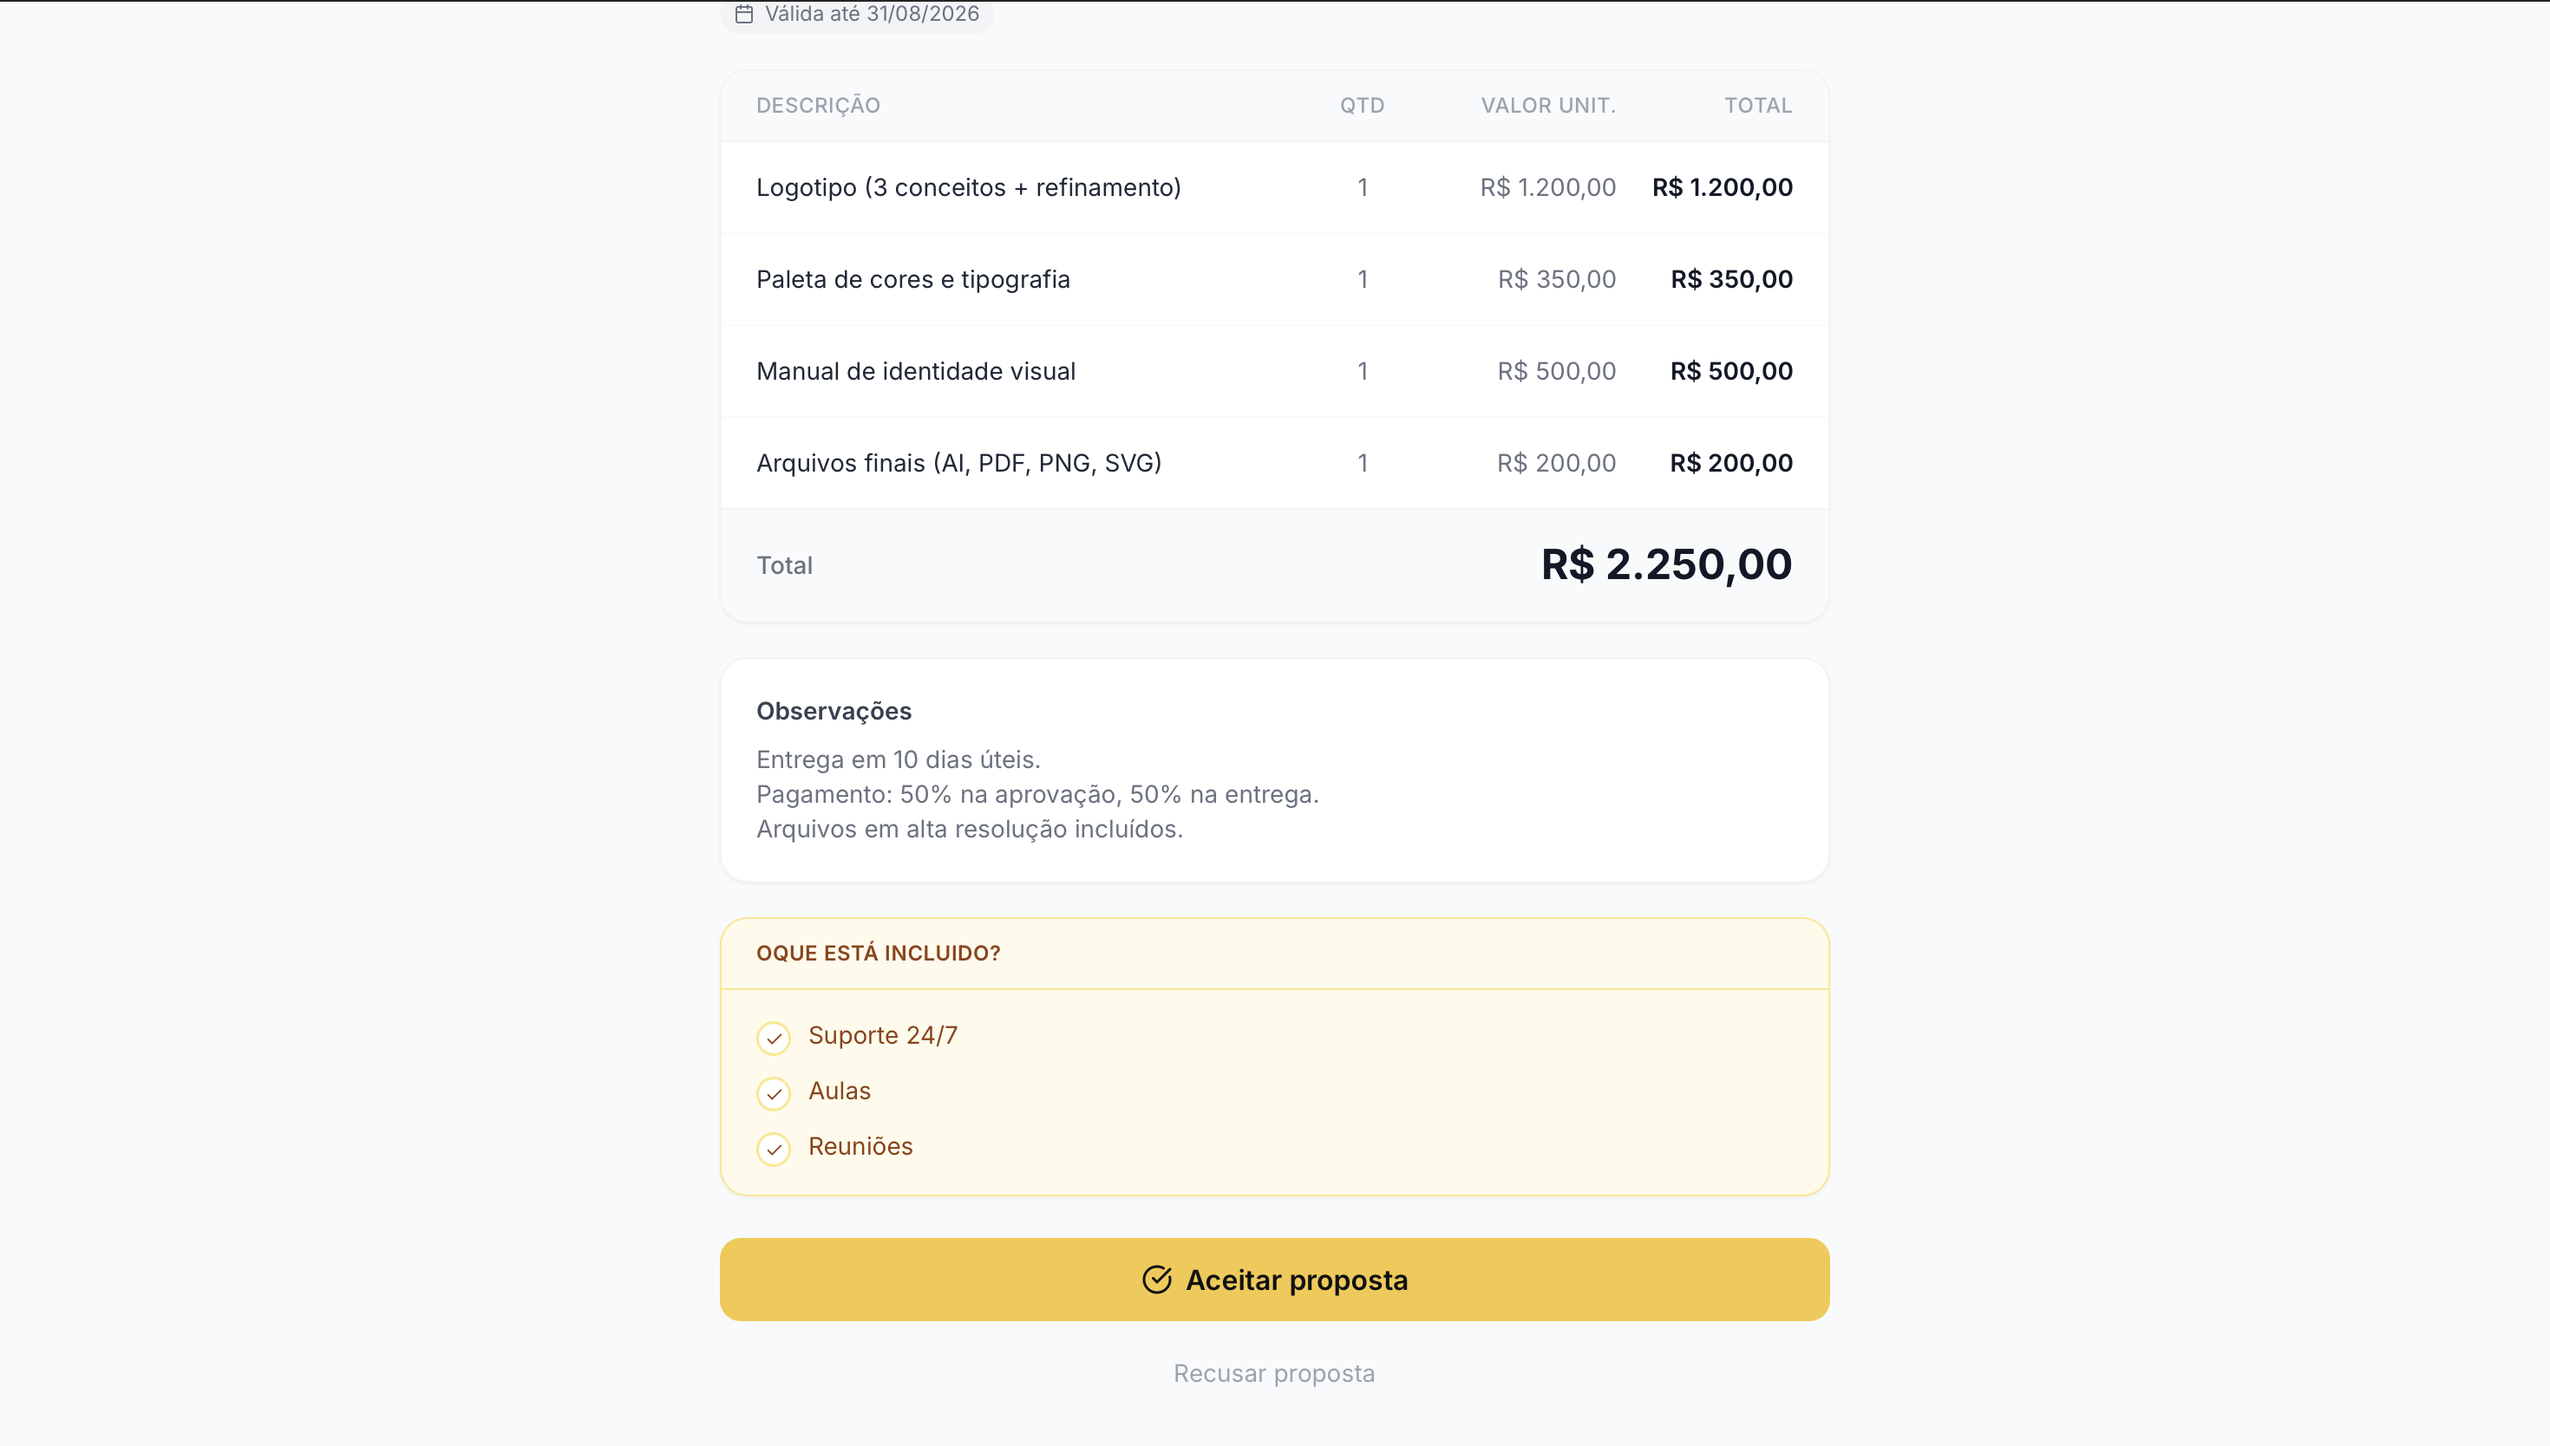
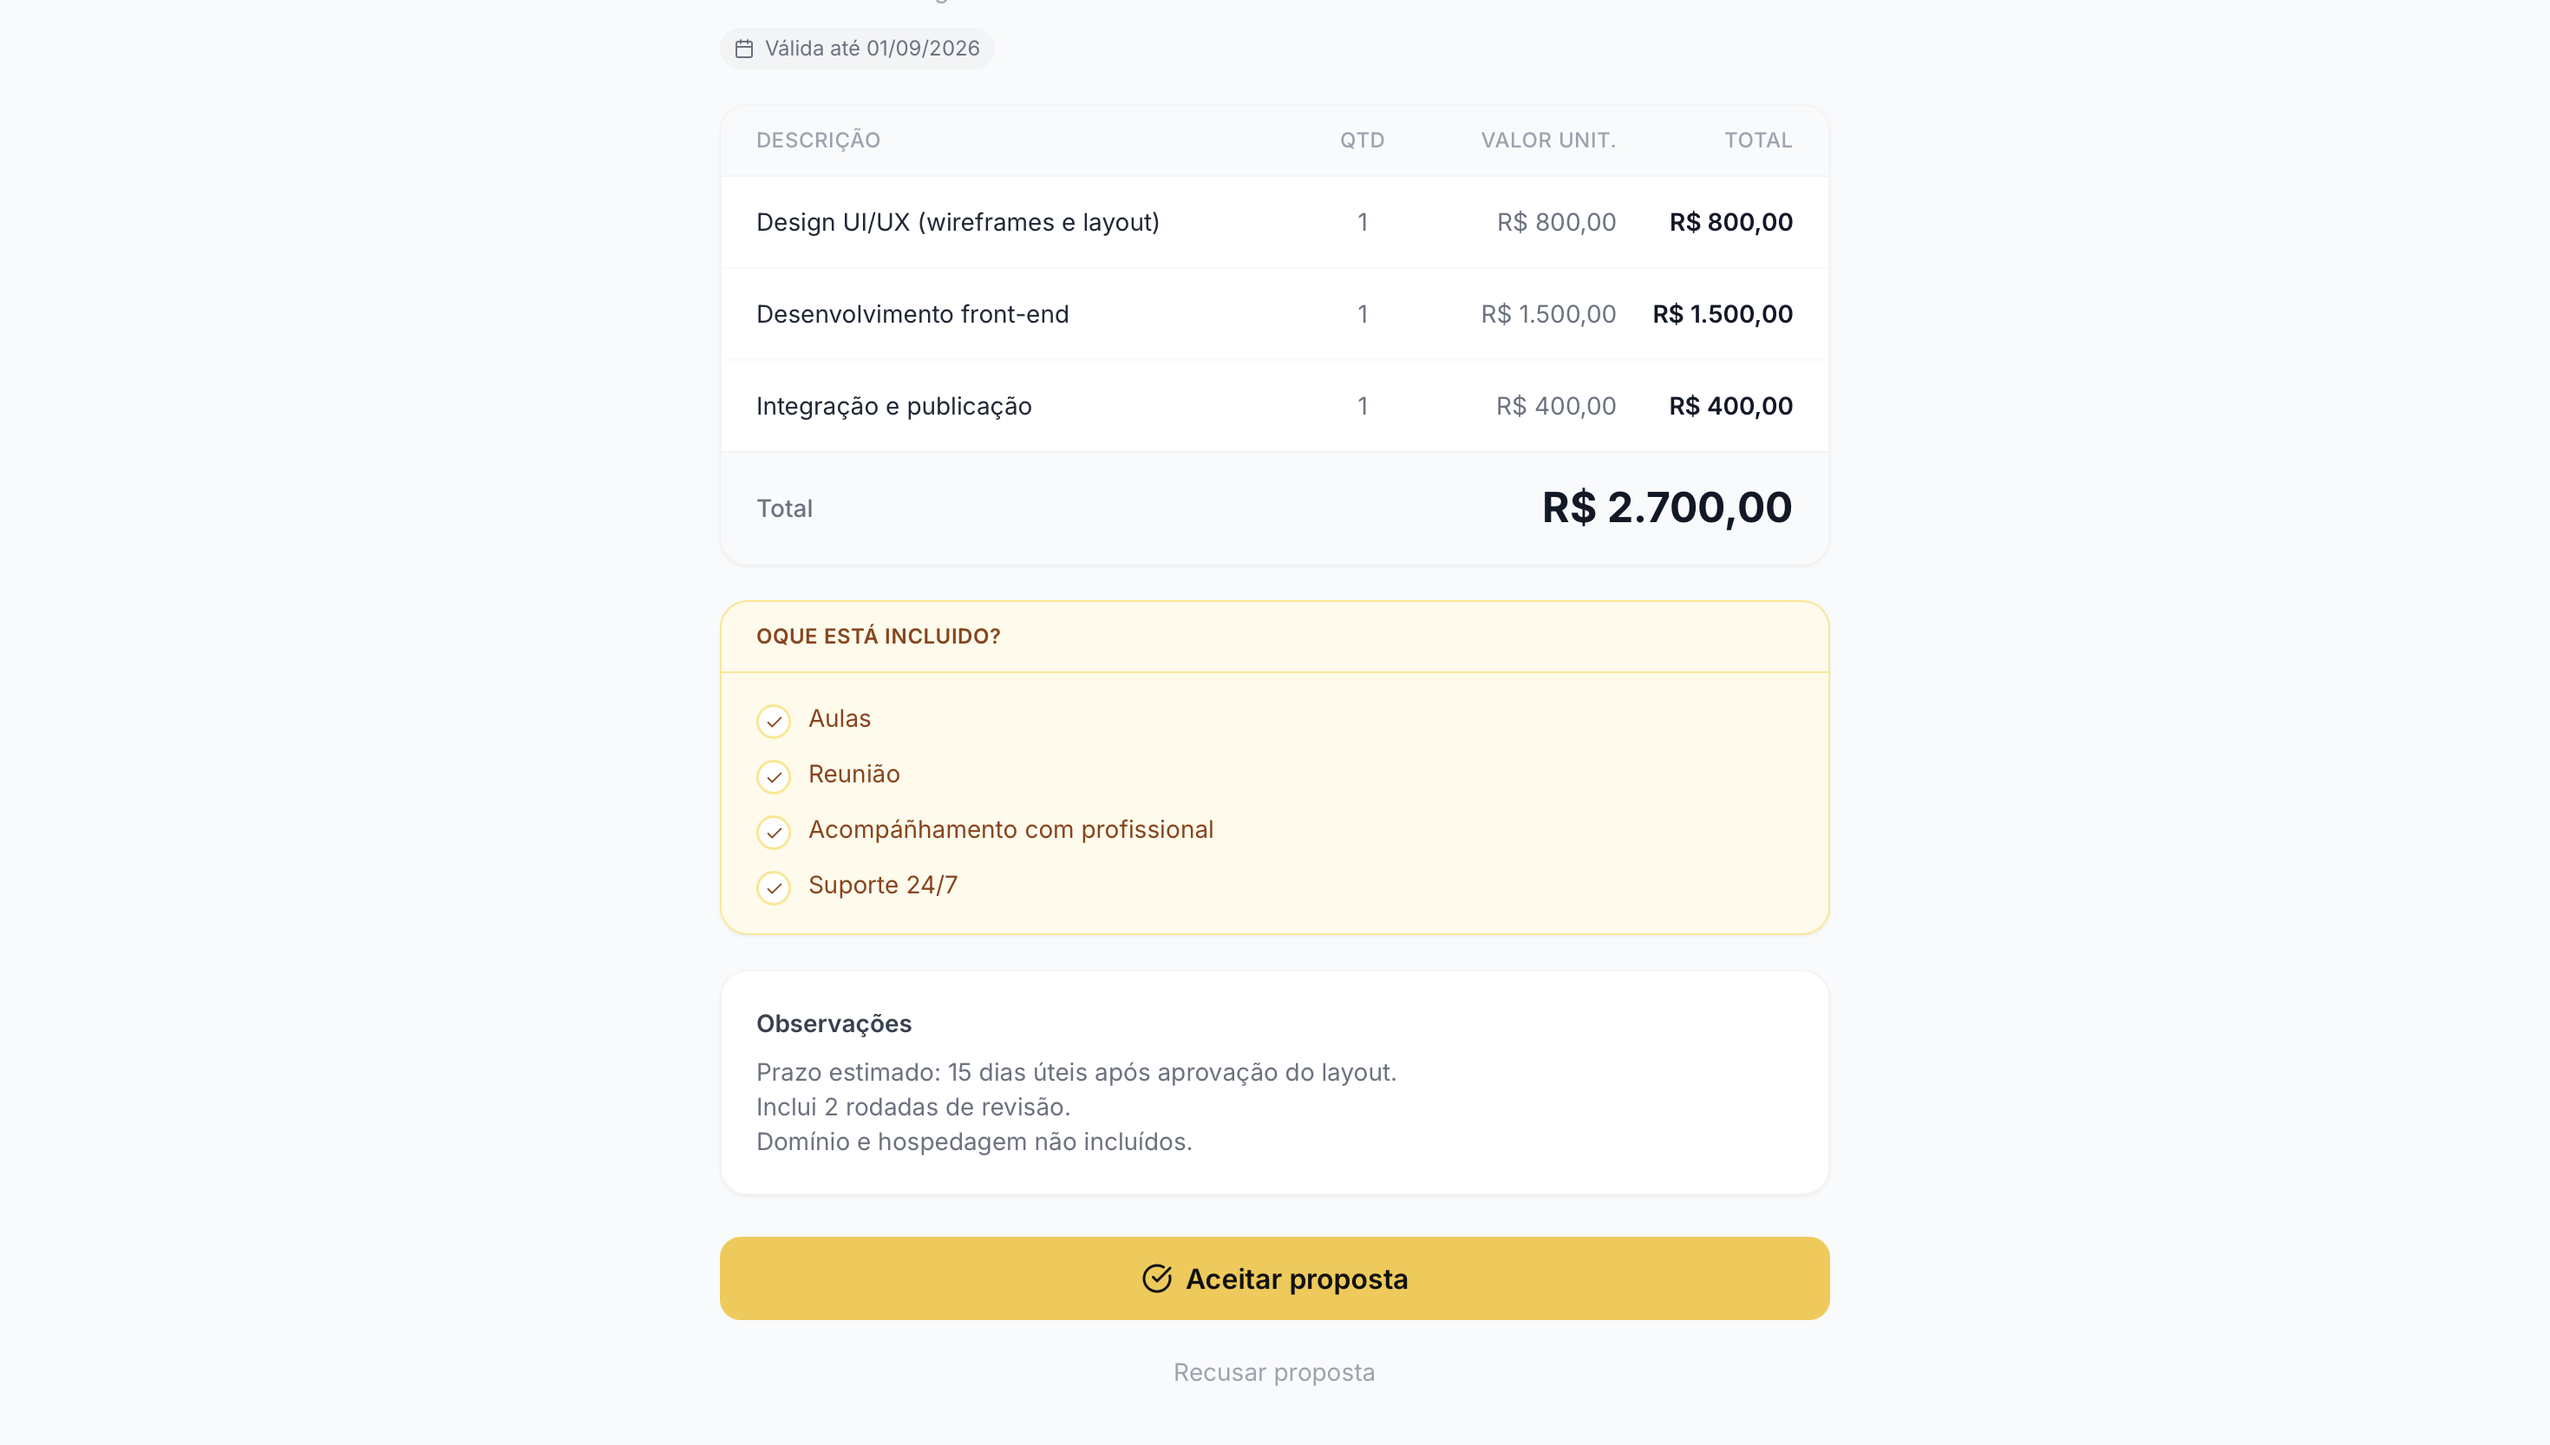
fix(landing): replace Proposta.png + Proposta2.png (remove black border edge)
Corrected screenshots replace the previous versions that had an accidental
black border artifact visible on the edge. No HTML structural changes —
only the image files and a ?v=2 cache-buster on both <img> src attributes
so browsers serve the new files immediately rather than the cached copies.

diff --git a/index.html b/index.html
@@ -821,7 +821,7 @@ footer{background:var(--dk);padding:44px 60px;display:flex;align-items:center;ju
       </div>
       <div class="journey-screen rr">
         <div class="ss-browser">
-          <img src="/public/Proposta.png" class="ss-img" alt="Proposta profissional Flowlance">
+          <img src="/public/Proposta.png?v=2" class="ss-img" alt="Proposta profissional Flowlance">
         </div>
       </div>
     </div>
@@ -830,7 +830,7 @@ footer{background:var(--dk);padding:44px 60px;display:flex;align-items:center;ju
     <div class="journey-step even">
       <div class="journey-screen rl">
         <div class="ss-browser">
-          <img src="/public/Proposta2.png" class="ss-img" alt="Aceitar proposta com 1 clique">
+          <img src="/public/Proposta2.png?v=2" class="ss-img" alt="Aceitar proposta com 1 clique">
         </div>
       </div>
       <div class="journey-label rr">
